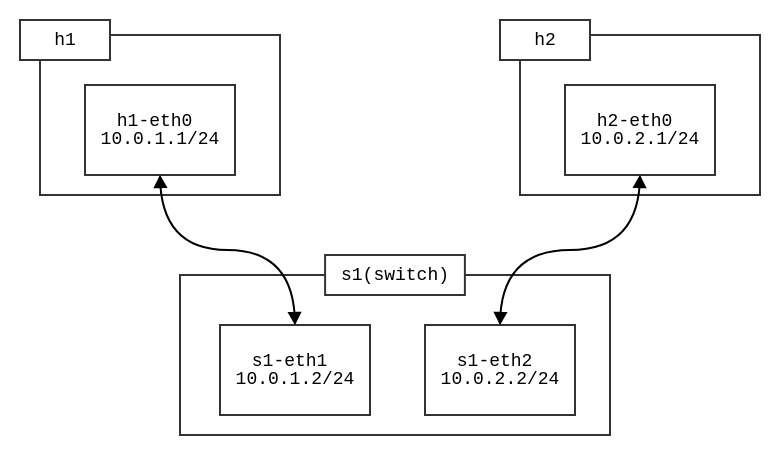
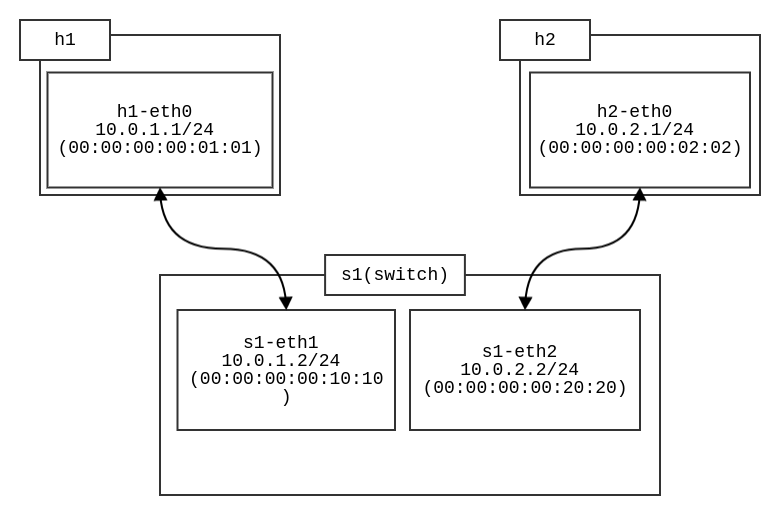
Complete run-directly usage.

diff --git a/P4-playground/run-directly/README.md b/P4-playground/run-directly/README.md
@@ -6,10 +6,11 @@
 
 * 呼叫 `build.sh` 來做建立實驗環境（*Step1~Step4*）
     * 也就是下面 `build` 的腳本，詳細可以參考 `build/` 的資料夾！
-    * 當 `build.sh` 完成後，會自動開啟 3 個 xterm 的 terminal 做使用，接下來就可以依據不同的 namespace 來做不同的事！
+    * 當 `build.sh` 完成後，會自動開啟 2 個 xterm 的 terminal 做使用，接下來就可以依據不同的 namespace 來做不同的事！
 * 由 `build.sh` 建好環境後，這時候可以進入到 Step5, 6 進行手動操作！
-    * 開啟名稱為 switch 的 terminal 做操作，呼叫 simple_switch 來使用編譯好的 P4 程式 (參考 `Step5`)
-    * 開啟 h1,h2 的 terminal， h1 使用 `send.py`, h2 開啟 `receive.py` 做封包 sniffing ，實現我們想要的 scenario!
+    * 開啟任意 terminal 做操作，呼叫 simple_switch 來使用編譯好的 P4 程式 (參考 `Step5`)
+    * 再開啟另一個 terminal 操作 simple_switch_CLI 來把 `basic_rules.txt` 的規則導入給 simple_switch 做使用！
+    * 最後開啟 h1,h2 的 terminal， h1 使用 `./send.py <h2-port> "P4"`, h2 開啟 `./receive.py` 做封包 sniffing ，實現我們想要的 scenario!
 
 * 最後使用完畢時，使用 `clearall.sh` 來清理實驗環境
 
@@ -56,24 +57,21 @@ namespace h1>
 
 到這裡我們擁有了兩個各自獨立的 namespace！ 接下來準備加入 namespace 間的通信
 
-* Step 3: 建立第三個 namespace 作為 switch 使用
+* Step 3: ~~建立第三個 namespace 作為 switch 使用~~
+    * 讓對口留在本地端，方便之後的操作！（詳細請看最下面的問題區塊）
     * 利用兩條 veth pair 在這三個 namespace 中連結
     ![](../../Resource/gliffy/run_directly_scenario.png)
     * 另外也可以透過 `ip link set <ethx> address <CUSTOM-MAC-ADDRESS>` 來設定自訂的 MAC Address ( 不然每次都會不一樣 )
 ```bash
-# build namespace for switch
-sudo ip netns add s1
-
 # build first link: s1-eth1 <-> h1-eth0
 sudo ip link add s1-eth1 type veth peer name h1-eth0
-sudo ip link set s1-eth1 netns s1
 sudo ip link set h1-eth0 netns h1
 
 # activate with IP address assign
 sudo ip netns exec h1 ip link set h1-eth0 up
 sudo ip netns exec h1 ip addr add 10.0.1.1/24 dev h1-eth0
-sudo ip netns exec s1 ip link set s1-eth1 up
-sudo ip netns exec s1 ip addr add 10.0.1.2/24 dev s1-eth1
+sudo ip link set s1-eth1 up
+sudo ip addr add 10.0.1.2/24 dev s1-eth1
 
 # build second link: s1-eth2 <-> h2-eth0
 sudo ip link add s1-eth2 type veth peer name h2-eth0
@@ -83,8 +81,8 @@ sudo ip link set h2-eth0 netns h2
 # activate with IP address assign
 sudo ip netns exec h2 ip link set h2-eth0 up
 sudo ip netns exec h2 ip addr add 10.0.2.1/24 dev h2-eth0
-sudo ip netns exec s1 ip link set s1-eth2 up
-sudo ip netns exec s1 ip addr add 10.0.2.2/24 dev s1-eth2
+sudo ip link set s1-eth2 up
+sudo ip addr add 10.0.2.2/24 dev s1-eth2
 ```
 
 到這邊為止，可以建立出兩條互相沒有關聯的連線！（`h1-eth0` to `s1-eth1`, 以及 `h2-eth0` to `s1-eth2`）
@@ -105,7 +103,6 @@ sudo ip netns exec s1 ip addr add 10.0.2.2/24 dev s1-eth2
             ```bash
             # add default gateway
             sudo ip route add default via 10.0.1.2
-            sudo ip route add 10.0.2.2 via 10.0.1.2
             ```
         * `h2`:
             * 預期結果
@@ -119,7 +116,6 @@ sudo ip netns exec s1 ip addr add 10.0.2.2/24 dev s1-eth2
             ```bash
             # add default gateway
             sudo ip route add default via 10.0.2.2
-            sudo ip route add 10.0.1.2 via 10.0.2.2
             ```
         * 這麼一來就可以讓兩邊互通！
     * 再來執行 compile
@@ -135,12 +131,17 @@ p4c-bm2-ss --p4v 16 forwarding.p4 -o forwarding.p4.json
 sudo ip netns exec s1 bash
 
 # Execute simple_switch for use (in s1 process)
-> simple_switch -i 1@s1-eth1 -i 2@s1-eth2 --pcap --thrift-port 9090 --nanolog ipc:///tmp/bm-0-log.ipc --device-id 0 forwarding.p4.json --log-console
+> sudo simple_switch -i 1@s1-eth1 -i 2@s1-eth2 --pcap --thrift-port 9090 --nanolog ipc:///tmp/bm-0-log.ipc --device-id 0 forwarding.p4.json --log-console
 ```
 
 * Step 6: 開啟傳送封包的程式: `send.py`, `receive.py` 做使用，來檢查是否符合預期
     * 這邊和 `p4lang/tutorial/SIGCOMM2017/exercise` 中的使用方式雷同
 
+* Step 7: 透過 `simple_switch_CLI` 加入規則！
+    * 使用 simple_switch_CLI 讀取 basic_rules.txt 來匯入規則!
+    ```bash
+    simple_switch_CLI < basic_rules.txt
+    ```
 
 > 備註：
 > 如果發生 delete namespace 後，再次呼叫其他程式（e.g. `p4-tutorial`）出現"仍然有 ethx 佔用的"的錯誤訊息發生時，可以呼叫 `sudo mn -c`，讓 mininet 的指令來幫忙做清除的工作
@@ -149,4 +150,7 @@ sudo ip netns exec s1 bash
 
 * [Q1] 無法使用 simple_switch 指定 s1-eth1, s1-eth2 來做使用，目前沒辦法通
     * 釐清 simple_switch, simple_switch_CLI 使用
-    * `send.py`, `receive.py` 是否有問題？
+    * ~~`send.py`, `receive.py` 是否有問題？~~
+* [A1] **問題解決**！ 有幾項錯誤釐清：
+    * s1 的 namespace 不必建立，原因是如果建立在獨立的 namespace 當中的話，則後來呼叫 `simple_switch` 與 `simple_switch_CLI` 之間 thrift_server 連接會很麻煩
+    * 再來就是上個問題的原因，之前測試錯誤都是因為我忽略了一個 simple_switch 給的錯誤訊息： `Add port operation failed`；這個錯誤訊息出現表示 simple_switch 在 attach interface 到 port 上時出了錯誤（找不到該名稱的 interface 做使用），所以後來我把腳本中 s1 的部份拿掉，讓對口留在本地端；之後就直接掉用 simple_switch 以及 simple_switch_CLI 即可！
